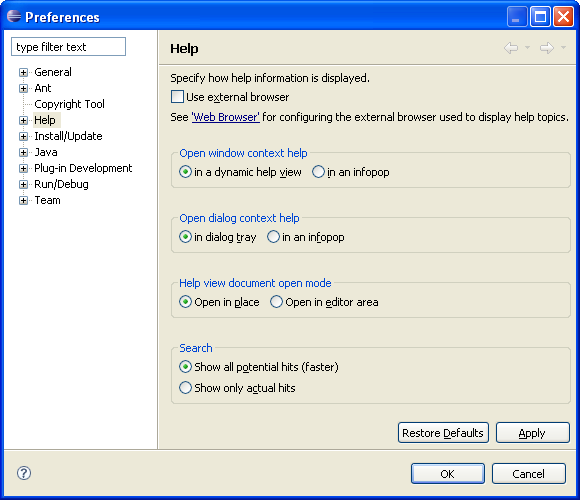
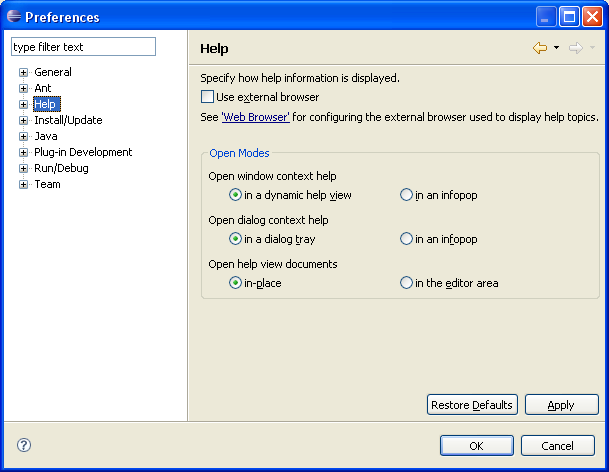
Bug 190342 - [Help] Help preference page reference doc is out of date

diff --git a/bundles/org.eclipse.platform.doc.user/reference/help_preferences.htm b/bundles/org.eclipse.platform.doc.user/reference/help_preferences.htm
@@ -53,19 +53,11 @@ preferences page, you can indicate how to display help information.</P>
       <TH align="left"> <span style="font-weight: 400">in dialog tray</span></TH>
     </TR>
     <TR> 
-      <TH align="left"> <span style="font-weight: 400">Help view document open 
-        mode </span></TH>
+      <TH align="left"> <span style="font-weight: 400">Open help view documents</span></TH>
       <TH align="left"><span style="font-weight: 400">This option allows you to 
         determine whether the documents selected in the help view will be opened
-        in place or in the editor area.</span></TH>
-      <TH align="left"> <span style="font-weight: 400">Open in place </span></TH>
-    </TR>
-    <TR> 
-      <TH align="left"> <span style="font-weight: 400">Search</span></TH>
-      <TH align="left"><span style="font-weight: 400">Determines whether potential hits
-      should be shown while searching. Showing potential hits will increase search
-      performance, at the cost of potential loss of accuracy.</span></TH>
-      <TH align="left"> <span style="font-weight: 400">Show all potential hits (faster)</span></TH>
+        in-place or in the editor area.</span></TH>
+      <TH align="left"> <span style="font-weight: 400">in-place </span></TH>
     </TR>
   </THEAD>
   <TBODY>
